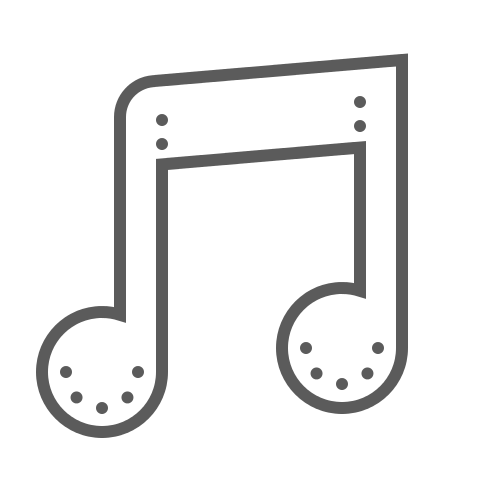
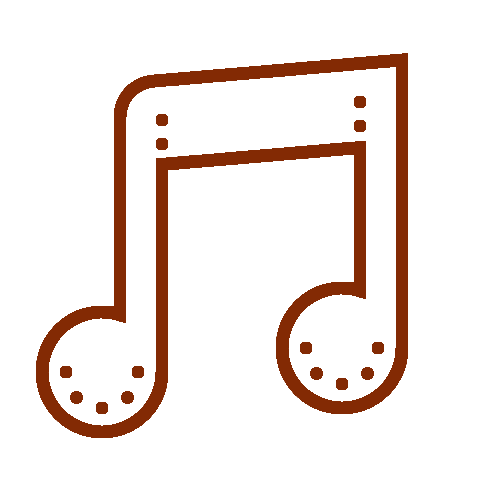
edit first page

Changed region(s): [[0.0625, 0.0938, 0.875, 0.9375], [0.7188, 0.1875, 0.7812, 0.2188]]

diff --git a/src/component/page/homePage/ArtList.tsx b/src/component/page/homePage/ArtList.tsx
@@ -5,15 +5,15 @@ const data = [
     {
         href:'/graphics',
         imageSRC: '/image/tajasomi.png',
-        alt: 'هنرستان دخترانه پیک آفتاب گرافیک',
+        alt: 'راه هنر',
         nameStudy: 'هنر تجسمی',
-        customClassNameForParentDiv: 'bg-gray-400/50 shadow-gray-400/40 '
+        customClassNameForParentDiv: 'bg-gray-500/50 shadow-gray-500/40 '
 
     },
     {
         href:'/graphics',
         imageSRC: '/image/pen.png',
-        alt: 'هنرستان دخترانه پیک آفتاب گرافیک',
+        alt: 'راه هنر',
         nameStudy: 'هنر موسیقی',
         customClassNameForParentDiv: 'bg-gray-400/50 shadow-gray-400/40 '
 
@@ -21,31 +21,31 @@ const data = [
     {
         href:'/graphics',
         imageSRC: '/image/aks.png',
-        alt: 'هنرستان دخترانه پیک آفتاب گرافیک',
+        alt: 'راه هنر',
         nameStudy: 'هنر رسانه',
-        customClassNameForParentDiv: 'bg-gray-400/50 shadow-gray-400/40 '
+        customClassNameForParentDiv: 'bg-[#e9c257] shadow-[#e9c257]/40 '
 
     },
     {
         href:'/sewing-design',
         imageSRC: '/image/music.png',
-        alt: 'هنرستان دخترانه پیک آفتاب طراحی دوخت',
+        alt: 'راه هنر',
         nameStudy: 'هنر نوشتاری',
         customClassNameForParentDiv: 'bg-amber-400/40 shadow-amber-400/40'
     },
     {
         href:'/photographic',
         imageSRC: '/image/dokht.png',
-        alt: 'هنرستان دخترانه پیک ��فتاب عکاسی',
+        alt: 'راه هنر',
         nameStudy: 'هنر کاربری',
         customClassNameForParentDiv: ' bg-[#ff6d34]/60 shadow-[#ff6d34]/40'
     },
     {
         href:'/architecture',
         imageSRC: '/image/karbordi.png',
-        alt: 'هنرستان دخترانه پیک آفتاب عکاسی',
+        alt: 'راه هنر',
         nameStudy: 'هنر سنتی',
-        customClassNameForParentDiv: ' bg-[#ff6d34]/50 shadow-[#ff6d34]/40'
+        customClassNameForParentDiv: ' bg-[#f07f52]/50 shadow-[#f07f52]/40'
     }
 
 ];
@@ -54,12 +54,12 @@ const ArtList = () => {
         <div className="grid grid-cols-2 xl:grid-cols-6 gap-3 md:gap-6 mx-auto my-7">
             {data.map((item, index: number) => (
                 <Link key={index} to={item.href}
-                      className={`w-[170px] cursor-pointer h-36 md:w-72 md:h-52 rounded-3xl ${item.customClassNameForParentDiv} shadow-lg `}>
+                      className={`w-[170px] cursor-pointer h-36 md:w-52 md:h-52 rounded-3xl ${item.customClassNameForParentDiv} shadow-lg `}>
                     <div className=" relative ">
                         <img
                             src={item.imageSRC}
                             alt={item.alt}
-                            className="absolute -right-3 h-[100px] w-[100px] md:-right-4 md:h-[170px] md:w-[170px] object-cover"
+                            className="absolute -right-3 h-[100px] w-[100px] md:-right-4 md:h-[130px] md:w-[130px] object-cover"
                         />
                         <strong
                             className={`text-white text-lg md:text-2xl absolute md:left-3 left-2  top-8 `}>{item.nameStudy}</strong>
@@ -67,8 +67,8 @@ const ArtList = () => {
                             <p className="text-customBlue text-[16px] md:text-xl font-bold">معرفی رشته</p>
                         </div>
                         <div
-                            className=" absolute bg-customBlue rounded-2xl text-white p-[2px] px-2  text-[12px] md:text-[18px] font-bold  right-5 top-28 md:top-[165px] md:right-16">
-                            <p>فرصت های شغلی رشته</p>
+                            className=" absolute bg-customBlue rounded-2xl  p-[2px] px-2  text-[12px] md:text-[15px] font-bold  right-5 top-28 md:top-[165px] md:right-16">
+                            <p>لیست قسمت ها</p>
                         </div>
                     </div>
                 </Link>

diff --git a/src/component/layout/Footer/Footer.tsx b/src/component/layout/Footer/Footer.tsx
@@ -100,37 +100,37 @@ const Footer = () => {
     const servicesData = [
         {
             id: 1,
-            src: 'image/aks.png',
+            src: '/image/aks.png',
             title: "هنر رسانه",
             navigate: "/third-party-insurance",
         },
         {
             id: 2,
-            src: 'image/dokht.png',
+            src: '/image/dokht.png',
             title: "هنر کاربری",
             navigate: "/third-party-insurance",
         },
         {
             id: 3,
-            src: 'image/karbordi.png',
+            src: '/image/karbordi.png',
             title: "هنر سنتی",
             navigate: "/third-party-insurance",
         },
         {
             id: 4,
-            src: 'image/music.png',
-            title: "هنر نوشتاری",
-            navigate: "/third-party-insurance",
-        },
-        {
-            id: 5,
-            src: 'image/pen.png',
+            src: '/image/music.png',
             title: "هنر موسیقی",
             navigate: "/third-party-insurance",
         },
         {
+            id: 5,
+            src: '/image/pen.png',
+            title: "هنر نوشتاری",
+            navigate: "/third-party-insurance",
+        },
+        {
             id: 6,
-            src: 'image/tajasomi.png',
+            src: '/image/tajasomi.png',
             title: "هنر تجسمی",
             navigate: "/third-party-insurance",
         },
@@ -147,7 +147,7 @@ const Footer = () => {
             {useWindowWidth() > 850 ? (
                 // <footer className="bg-gradient-to-r from-primary to-white bg- ">
                 //   <div className="max-w-6xl mx-auto px-6 py-6 text-center text-sm text-card-foreground">
-                //     <strong>کلیه حقوق این وب سایت محفوظ و متعلق به شرکت بیمه یار میباشد.</strong>
+                //     <strong>کلیه حقوق این وب سایت محفوظ و متعلق به شرکت راه هنر میباشد.</strong>
                 //   </div>
                 // </footer>
                 <MdFooter/>
@@ -213,7 +213,7 @@ const Footer = () => {
                                                     }}
                                                     className={" border border-card text-card-foreground bg-card text-sliderBlueColor rounded-xl flex flex-col items-center justify-center w-[90px] h-[90px] shadow-xl"}
                                                 >
-                                                    <img src={item.src} className={"mb-2"}/>
+                                                    <img src={item.src} className={"mb-2 h-12 w-12"}/>
                                                     <p className={"text-[12px]"}>{item.title}</p>
                                                 </div>
                                             ) : item.id ? (
@@ -222,7 +222,7 @@ const Footer = () => {
                                                         setIsModalOpen(false);
                                                         setSelectedTab(currentPath);
                                                     }}
-                                                    className="w-11 h-11 border border-card-foreground bg-card text-sliderBlueColor text-card-foreground rounded-full flex  items-center justify-center shadow-md mr-[8px] my-7"
+                                                    className="w-11 h-11 border border-card-foreground bg-card text-primary text-card-foreground rounded-full flex  items-center justify-center shadow-md mr-[8px] my-7"
                                                 >
                                                     {item.icon}
                                                 </div>

diff --git a/src/component/page/homePage/ListSlider.tsx b/src/component/page/homePage/ListSlider.tsx
@@ -9,14 +9,12 @@ const ResumeSlider = () => {
     const intervalRef = useRef<NodeJS.Timeout | null>(null);
 
     const data = [
-        { id: '1', src: '/image/sliderResume/pyke-aftab-slider1.jpg', title: 'کاری طراحی شد در هنرستان پیک آفتاب 1' },
-        { id: '2', src: '/image/sliderResume/pyke-aftab-slider2.jpg', title: 'کاری طراحی شد در هنرستان پیک آفتاب 2' },
-        { id: '3', src: '/image/sliderResume/pyke-aftab-slider3.jpg', title: 'کاری طراحی شد در هنرستان پیک آفتاب 3' },
-        { id: '4', src: '/image/sliderResume/pyke-aftab-slider4.jpg', title: 'کاری طراحی شد در هنرستان پیک آفتاب 4' },
-        { id: '5', src: '/image/sliderResume/pyke-aftab-slider5.jpg', title: 'کاری طراحی شد در هنرستان پیک آفتاب 5' },
-        { id: '6', src: '/image/sliderResume/pyke-aftab-slider6.jpg', title: 'کاری طراحی شد در هنرستان پیک آفتاب 6' },
-        { id: '7', src: '/image/sliderResume/pyke-aftab-slider6.jpg', title: 'کاری طراحی شد در هنرستان پیک آفتاب 6' },
-        { id: '8', src: '/image/sliderResume/pyke-aftab-slider6.jpg', title: 'کاری طراحی شد در هنرستان پیک آفتاب 6' }
+        { id: '1', src: '/image/slider/1.jpg', title: 'راه هنر1' },
+        { id: '2', src: '/image/slider/2.jpg', title: 'راه هنر 2' },
+        { id: '2', src: '/image/slider/3.jpg', title: 'راه هنر 3' },
+        { id: '3', src: '/image/slider/4.jpg', title: 'راه هنر 4' },
+        { id: '4', src: '/image/slider/5.jpg', title: 'راه هنر 5' },
+        { id: '5', src: '/image/slider/6.jpg', title: 'راه هنر 6' }
     ];
 
     const startAutoSlide = () => {

diff --git a/src/index.css b/src/index.css
@@ -4,3 +4,62 @@
 body {
     font-family: IRANSans, serif;
 }
+@theme {
+    --color-background: var(--background);
+    --color-foreground: var(--foreground);
+    --color-primary: var(--primary);
+    --color-primary-foreground: var(--primary-foreground);
+    --color-secondary: var(--secondary);
+    --color-secondary-foreground: var(--secondary-foreground);
+    --color-input: var(--input);
+    --color-input-foreground: var(--input-foreground);
+    --color-card: var(--card);
+    --color-hover: var(--hover);
+    --color-card-foreground: var(--card-foreground);
+    --color-muted: var(--muted);
+    --color-footerBack: var(--footerBack);
+    --animate-infinite-slider: infiniteSlider 20s linear infinite;
+
+    @keyframes infiniteSlider {
+        0% {
+            transform: translateX(0);
+        }
+        100% {
+            transform: translateX(50%);
+        }
+    }
+}
+
+:root {
+    --primary: #832a04;
+    --primary-foreground: white;
+    --secondary: #832a04;
+    --secondary-foreground: white;
+    --input: #fefefe;
+    --input-foreground: #222;
+    --hover: #e8e8e8;
+    --card: white;
+    --card-foreground: #202020;
+    --background: #f3f3f3;
+    --foreground: black;
+    --chatBotColor: #d5ffed;
+    --muted: #494c57;
+    --footerBack: white;
+}
+.dark {
+    --primary: #832a04;
+    --primary-foreground: white;
+    --secondary: #832a04;
+    --secondary-foreground: white;
+    --input: #202020;
+    --input-foreground: #fefefe;
+    --card: #272727;
+    --hover: #272727;
+    --card-foreground: white;
+    --background: #1e1e1e;
+    --foreground: white;
+    --muted: #494c57;
+    --chatBotColor: #015945;
+    --textColor: #cafbe2;
+    --footerBack: white;
+}

diff --git a/src/component/page/homePage/Honor.tsx b/src/component/page/homePage/Honor.tsx
@@ -5,18 +5,18 @@ const Honors = () => {
     const data = [
 
         {
-            imageSRC: '/image/هنرمندان-هنرستان-پیک آفتاب.PNG',
-            imageALT: 'هنرمندان هنرستان-پیک آفتاب',
+            imageSRC: '/image/راه هنر.PNG',
+            imageALT: 'راه هنر',
             text: 'بیش از ۲۰ سال تجربه در تربیت نسل آینده هنرمندان استان'
         },
         {
-            imageSRC: '/image/جوایز-هنرستان-پیک آفتاب.PNG',
-            imageALT: 'جوایز هنرستان-پیک آفتاب',
+            imageSRC: '/image/راه هنر.PNG',
+            imageALT: 'راه هنر',
             text: 'برگزارکننده موفق ترین نمایشگاه های دانش آموزی'
         },
         {
-            imageSRC: '/image/نمایشگاه-هنرستان-پیک آفتاب.PNG',
-            imageALT: 'نمایشگاه هنرستان-پیک آفتاب',
+            imageSRC: '/image/راه هنر.PNG',
+            imageALT: 'راه هنر',
             text: 'دارنده بیشترین جوایز هنری و علمی در میان هنرستان های استان'
         },
 

diff --git a/src/component/layout/Footer/ChatbotBottomSheetModal.tsx b/src/component/layout/Footer/ChatbotBottomSheetModal.tsx
@@ -14,7 +14,7 @@ interface Message {
 }
 
 const ChatbotBottomSheetModal = ({ onClose, open }: IProps) => {
-  const [messages, setMessages] = useState<Message[]>([{ id: 1, text: "سلام! 👋 من چت بات بیمه یار هستم، هر سوالی داری بپرس.", sender: "bot" }]);
+  const [messages, setMessages] = useState<Message[]>([{ id: 1, text: "سلام! 👋 من چت بات راه هنر هستم، هر سوالی داری بپرس.", sender: "bot" }]);
   const [input, setInput] = useState("");
 
   const handleSend = () => {
@@ -35,7 +35,7 @@ const ChatbotBottomSheetModal = ({ onClose, open }: IProps) => {
       <div className="flex flex-col h-[60vh]">
         {/* هدر چتبات */}
         <div className="flex items-center justify-between pb-3 border-b border-gray-200">
-          <h2 className="text-lg font-semibold text-primary">چت بات بیمه یار</h2>
+          <h2 className="text-lg font-semibold text-primary">چت بات راه هنر</h2>
           <button className="text-gray-500 hover:text-gray-700" onClick={() => onClose(false)}>
             ✕
           </button>

diff --git a/src/component/layout/header/SideBar/CustomSideBar.tsx b/src/component/layout/header/SideBar/CustomSideBar.tsx
@@ -9,10 +9,12 @@ import {Link} from "react-router-dom";
 const CustomSidebar = () => {
 	const [isSidebarOpen, setSidebarOpen] = useState(false);
 	const data = [
-		{ href: '/', icon: '', src: '/image/logo.png', title: 'فتوگرافیک' },
-		{ href: '/', icon: '', src: '/image/logo.png', title: 'طراحی دوخت' },
-		{ href: '/', icon: '', src: '/image/logo.png', title: 'معماری' },
-		{ href: '/', icon: '', src: '/image/logo.png', title: 'گرافیک' },
+		{ href: '/', icon: '', src: '/image/karbordi.png', title: 'هنر سنتی' },
+		{ href: '/', icon: '', src: '/image/dokht.png', title: 'هنر کاربری' },
+		{ href: '/', icon: '', src: '/image/music.png', title: 'هنر موسقی' },
+		{ href: '/', icon: '', src: '/image/aks.png', title: 'هنر رسانه' },
+		{ href: '/', icon: '', src: '/image/pen.png', title: 'هنر نوشتاری' },
+		{ href: '/', icon: '', src: '/image/tajasomi.png', title: 'هنر تجسمی' },
 		{ href: '/', icon: <FaChalkboardTeacher className="text-[#832a04]" />, src: '', title: 'درباره ما' }
 	];
 	return (

diff --git a/src/page/page.tsx b/src/page/page.tsx
@@ -1,8 +1,6 @@
 import { PiStudent } from 'react-icons/pi';
-
 import Carousel from "../component/page/homePage/Carousel.tsx";
 import ArtList from "../component/page/homePage/ArtList.tsx";
-import Honors from "../component/page/homePage/Honor.tsx";
 import ResumeSlider from "../component/page/homePage/ListSlider.tsx";
 
 const MainHomePageComponent = () => {
@@ -13,11 +11,11 @@ const MainHomePageComponent = () => {
                 <div className=" w-fit bg-customBlue flex p-1 px-2 rounded-3xl">
                     <PiStudent className="w-7 h-7 ml-1" />
                     <strong className="">
-                        رشته های هنرستان پیک آفتاب
+                        لیست تست
                     </strong>
                 </div>
                 <ArtList />
-                <Honors />
+                {/*<Honors />*/}
                 <ResumeSlider />
             </div>
         </div>

diff --git a/src/component/layout/Footer/MdFooter.tsx b/src/component/layout/Footer/MdFooter.tsx
@@ -13,7 +13,7 @@ const MdFooter = () => {
     <>
       <footer className=" relative bottom-0 w-full">
         <p className="text-primary-foreground dark:text-primary-foreground bg-[#015945] mx-auto py-4 text-center">
-          تمامی حقوق این وبسایت متعلق به شرکت <span className="text-bold text-primary-foreground text-center text-sm md:text-base dark:text-primary-foreground">بیمه یار</span> می باشد.
+          تمامی حقوق این وبسایت متعلق به شرکت <span className="text-bold text-primary-foreground text-center text-sm md:text-base dark:text-primary-foreground">راه هنر</span> می باشد.
         </p>
       </footer>
     </>

diff --git a/src/component/layout/header/LogoClickHandler.tsx b/src/component/layout/header/LogoClickHandler.tsx
@@ -7,7 +7,7 @@ const LogoClickHandler = () => {
 	return (
 		<img
 			src="/image/logo.png"
-			alt="هنرستان دخترانه پیک آفتاب"
+			alt="راه هنر"
 			width={80}
 			height={80}
 			className="p-2 cursor-pointer"
